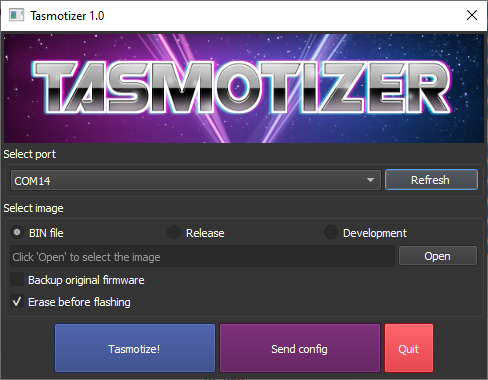
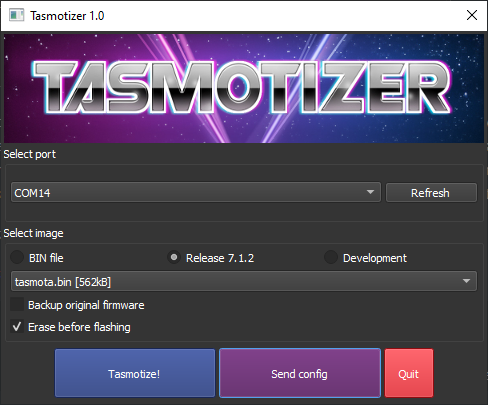
stray references removed

diff --git a/installation/Flashing.md b/installation/Flashing.md
@@ -12,11 +12,11 @@ Download the [latest release](https://github.com/tasmota/tasmotizer/releases) fo
 ![Tasmotizer UI](../_media/tasmotizer1.png ":no-zoom")
 
 1. Connect your device to the serial-to-USB adapter or plug in NodeMCU/D1 mini.
-1. Select the correct **Serial port** (COM# port). Leave on auto-select if not sure.
-1. Choose Tasmota firmware binary 
-   a. _**BIN file**_ - browse to the Tasmota firmware binary you downloaded or compiled.
-  b. Release - select from a list of available release binaries
-  c. Development - select from a list of latest development binaries
+1. Check whether the correct **serial port** (COM or tty port) is selected. Tasmotizer! will try its best to select the right one for you.
+1. Choose Tasmota firmware binary:
+   a. **BIN file** - browse to the Tasmota firmware binary you downloaded or compiled.
+  b. **Release** - select from a list of available release binaries
+  c. **Development** - select from a list of latest development binaries
 
 
 1. _optional_ Backup the original device firmware
